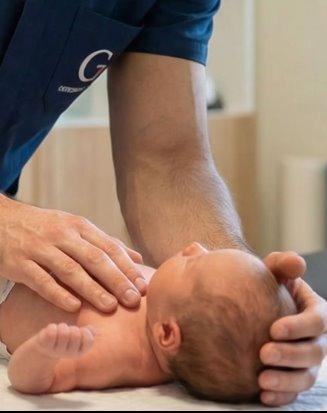
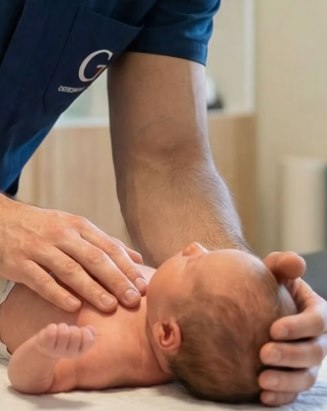
Nuova foto hero a tutta copertura e foto pediatrica senza bordo nero

diff --git a/css/style.css b/css/style.css
@@ -225,18 +225,8 @@ address { font-style: normal; }
   background: var(--ice);
 }
 .hero-media { position: absolute; inset: 0; z-index: -2; overflow: hidden; }
-/* Desktop: foto intera al centro + stessa foto sfocata a riempire i lati */
-.hero-bg {
-  position: absolute; inset: -40px; width: calc(100% + 80px); height: calc(100% + 80px);
-  object-fit: cover; object-position: 50% 30%;
-  filter: blur(28px) saturate(0.9); opacity: 0.85;
-}
-.hero-photo {
-  position: absolute; top: 0; left: 50%; height: 100%; width: auto; max-width: none;
-  transform: translateX(-50%);
-  -webkit-mask-image: linear-gradient(90deg, transparent 0%, #000 16%, #000 84%, transparent 100%);
-          mask-image: linear-gradient(90deg, transparent 0%, #000 16%, #000 84%, transparent 100%);
-}
+/* Foto a tutta copertura della hero, con overlay bianco */
+.hero-photo { width: 100%; height: 100%; object-fit: cover; object-position: 55% 12%; }
 .hero-overlay {
   position: absolute; inset: 0; z-index: -1;
   background:
@@ -258,11 +248,7 @@ address { font-style: normal; }
 
 @media (max-width: 760px) {
   .hero { min-height: auto; padding-block: 4.25rem 4.5rem; }
-  .hero-bg { display: none; }
-  .hero-photo {
-    left: 0; width: 100%; transform: none; object-fit: cover; object-position: 46% 18%;
-    -webkit-mask-image: none; mask-image: none;
-  }
+  .hero-photo { object-position: 60% 20%; }
   .hero-overlay {
     background: linear-gradient(180deg, rgba(255, 255, 255, 0.6) 0%, rgba(255, 255, 255, 0.72) 40%, rgba(255, 255, 255, 0.78) 100%);
   }

diff --git a/index.html b/index.html
@@ -83,10 +83,9 @@
     <!-- ============ 2. HERO ============ -->
     <section class="hero" aria-labelledby="hero-title">
       <div class="hero-media">
-        <img class="hero-bg" src="assets/hero-michele-galasso-osteopata.jpg" alt="" aria-hidden="true" width="471" height="567" decoding="async">
         <img class="hero-photo" src="assets/hero-michele-galasso-osteopata.jpg"
-             alt="Michele Galasso, osteopata, durante un trattamento osteopatico manuale su una paziente"
-             width="471" height="567" fetchpriority="high" decoding="async">
+             alt="Michele Galasso, osteopata, durante un trattamento osteopatico sulla schiena di una paziente"
+             width="474" height="591" fetchpriority="high" decoding="async">
       </div>
       <div class="hero-overlay" aria-hidden="true"></div>
       <div class="container hero-content">
